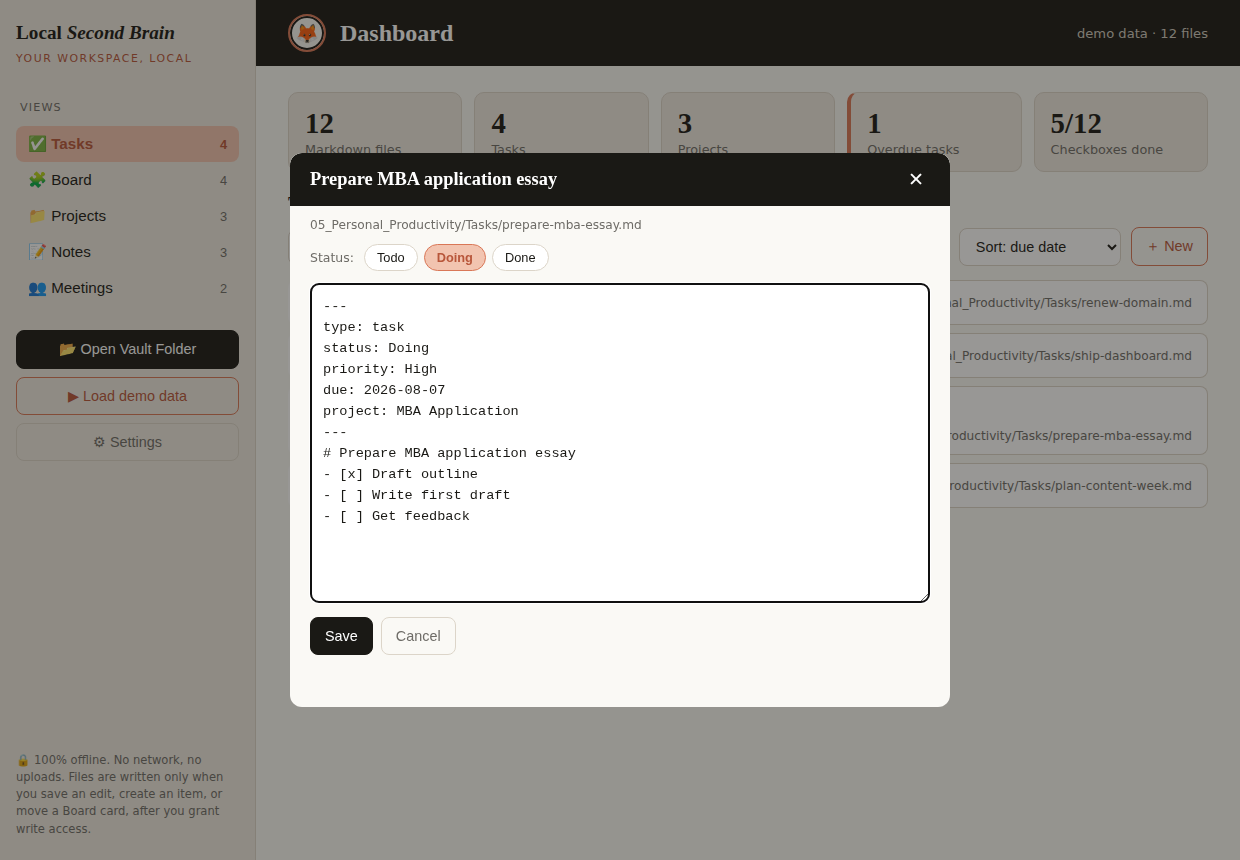
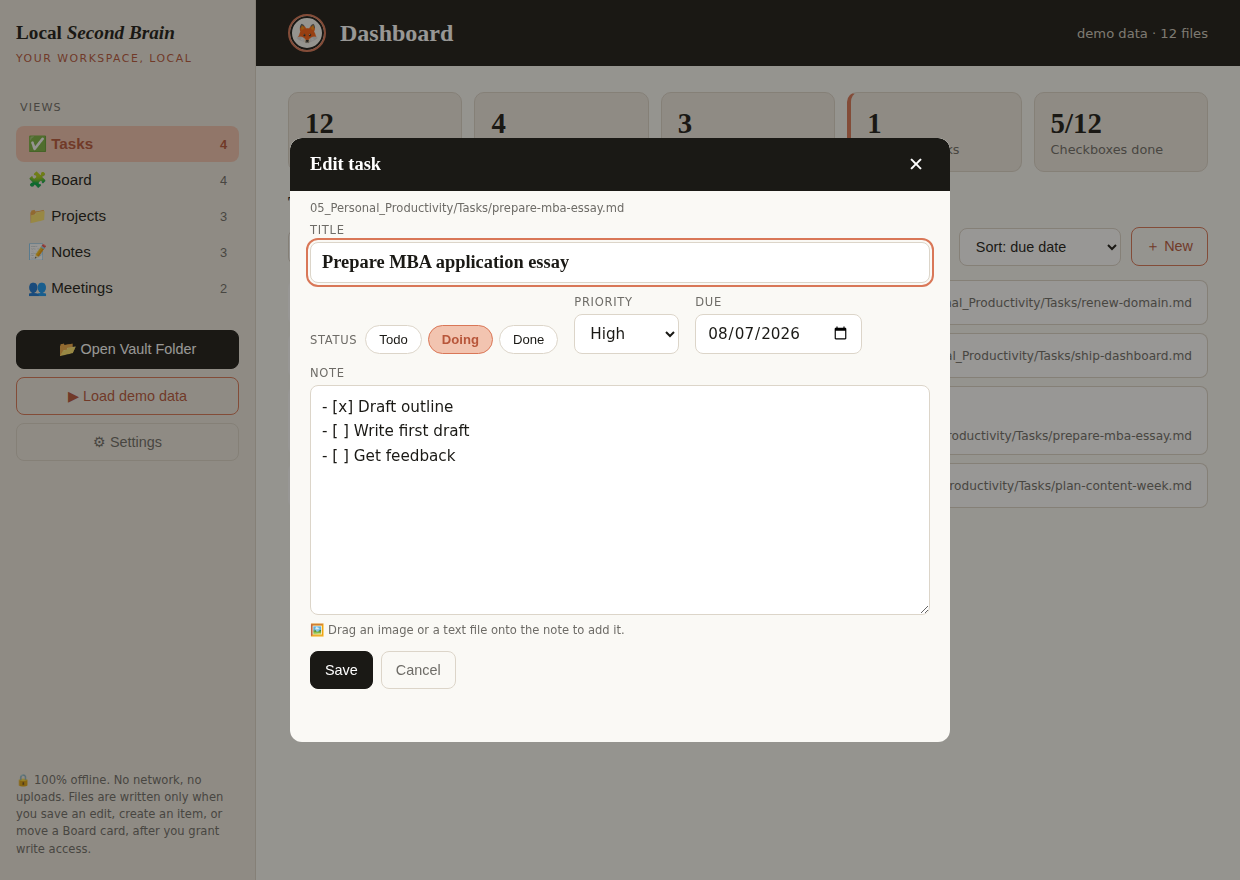
Make the note editor a friendly form with drag-and-drop attachments
The editor no longer shows raw YAML in a monospace box. It now has:
- A title field, Todo/Doing/Done status buttons, priority and due-date
  pickers, and a clean writing area with just the note prose.
- parseDoc/buildDoc split a Markdown file into frontmatter, title and
  body and reassemble it on save, preserving unmanaged frontmatter keys
  and mapping due to `deadline` for projects.
- Drag an image or text file onto the note to add it: images copy into
  an attachments/ folder and are linked (or embedded inline when there
  is no write access), text files are inserted at the cursor.

Verified in real Chromium: open shows fields populated and no YAML in
the body; edit title/status/priority/body round-trips on save; dropping
a PNG inserts an image link. No JS errors, textContent-only rendering,
no external requests.

diff --git a/dashboard/index.html b/dashboard/index.html
@@ -143,18 +143,27 @@
     background:var(--ink); color:#fff; padding:10px 18px; border-radius:8px; font-size:.85rem;
     z-index:60; max-width:90vw; }
 
-  /* ---- note editor ---- */
+  /* ---- note editor (friendly form) ---- */
   .row { cursor:pointer; }
   .editor.modal { max-width:660px; }
-  .editor .epath { color:var(--grey); font-size:.76rem; padding:12px 20px 0; direction:ltr; word-break:break-all; }
-  .editor .qrow { display:flex; gap:6px; padding:12px 20px 0; flex-wrap:wrap; align-items:center; }
-  .editor .qrow .qlbl { color:var(--grey); font-size:.78rem; margin-right:4px; }
+  .editor .epath { color:var(--grey); font-size:.72rem; padding:10px 20px 0; direction:ltr; word-break:break-all; }
+  .editor .eform { padding:8px 20px 0; display:flex; flex-direction:column; gap:12px; }
+  .editor .fl { display:flex; flex-direction:column; gap:5px; font-size:.72rem; letter-spacing:.06em;
+    text-transform:uppercase; color:var(--grey); }
+  .editor .fl input[type="text"], .editor .fl select, .editor .fl input[type="date"], .editor textarea {
+    font-family:inherit; font-size:.95rem; letter-spacing:normal; text-transform:none; color:var(--ink);
+    background:var(--white); border:1px solid var(--line); border-radius:8px; padding:9px 11px; }
+  .editor .fl input[type="text"] { font-family:Georgia, serif; font-size:1.15rem; font-weight:700; }
+  .editor textarea { min-height:230px; resize:vertical; line-height:1.6; }
+  .editor textarea.dropping { border-color:var(--clay); background:var(--salmon); }
+  .editor .frow2 { display:flex; gap:16px; flex-wrap:wrap; align-items:flex-end; }
+  .editor .fl.small { flex:0 0 auto; }
+  .editor .qrow { display:flex; gap:6px; align-items:center; flex-wrap:wrap; }
+  .editor .qrow .qlbl { color:var(--grey); font-size:.72rem; letter-spacing:.06em; text-transform:uppercase; margin-right:2px; }
   .editor .qrow button { border:1px solid var(--line); background:var(--white); color:var(--ink);
-    border-radius:999px; padding:5px 12px; font-size:.8rem; cursor:pointer; }
+    border-radius:999px; padding:6px 13px; font-size:.82rem; cursor:pointer; }
   .editor .qrow button.on { background:var(--salmon); color:var(--clay-dark); border-color:var(--clay); font-weight:700; }
-  .editor textarea { display:block; width:calc(100% - 40px); margin:12px 20px 0; min-height:320px; resize:vertical;
-    font-family:"Cascadia Code", Consolas, "Courier New", monospace; font-size:.85rem; line-height:1.55;
-    border:1px solid var(--line); border-radius:8px; padding:12px; background:var(--white); color:var(--ink); }
+  .editor .drophint { color:var(--grey); font-size:.72rem; margin-top:-4px; }
   .editor .eactions { display:flex; gap:8px; padding:14px 20px 0; }
   .editor .emsg { padding:8px 20px 0; color:var(--grey); font-size:.78rem; }
 
@@ -301,13 +310,29 @@
 <!-- Note editor modal -->
 <div class="overlay hidden" id="editorOverlay">
   <div class="modal editor" role="dialog" aria-label="Edit note">
-    <div class="mhead"><h2 id="edTitle">Edit</h2><button id="edClose" aria-label="Close">✕</button></div>
+    <div class="mhead"><h2 id="edHeading">Edit</h2><button id="edClose" aria-label="Close">✕</button></div>
     <div class="epath" id="edPath"></div>
-    <div class="qrow" id="edStatus">
-      <span class="qlbl">Status:</span>
-      <button data-s="Todo">Todo</button><button data-s="Doing">Doing</button><button data-s="Done">Done</button>
+    <div class="eform">
+      <label class="fl">Title
+        <input type="text" id="edTitle" placeholder="Untitled">
+      </label>
+      <div class="frow2">
+        <div class="qrow" id="edStatus">
+          <span class="qlbl">Status</span>
+          <button type="button" data-s="Todo">Todo</button><button type="button" data-s="Doing">Doing</button><button type="button" data-s="Done">Done</button>
+        </div>
+        <label class="fl small">Priority
+          <select id="edPriority"><option value="">None</option><option>Low</option><option>Medium</option><option>High</option></select>
+        </label>
+        <label class="fl small">Due
+          <input type="date" id="edDue">
+        </label>
+      </div>
+      <label class="fl">Note
+        <textarea id="edBody" spellcheck="true" aria-label="Note content" placeholder="Write here. You can drag an image or a text file into this box to add it."></textarea>
+      </label>
+      <div class="drophint">🖼 Drag an image or a text file onto the note to add it.</div>
     </div>
-    <textarea id="edBody" spellcheck="false" aria-label="Note content"></textarea>
     <div class="eactions">
       <button class="btn btn-ink" id="edSave">Save</button>
       <button class="btn btn-quiet" id="edCancel">Cancel</button>
@@ -550,39 +575,132 @@
     else toast(unsavedMsg("board changes"));
   }
 
-  /* ---------- note editor (create + edit inside the dashboard) ---------- */
+  /* ---------- note editor (friendly form + drag and drop) ---------- */
+  // Split a Markdown file into frontmatter, title, and body prose.
+  function parseDoc(raw) {
+    const fm = new Map(); let body = raw || ""; let titleInFm = false;
+    const m = (raw || "").match(/^---\r?\n([\s\S]*?)\r?\n---\r?\n?([\s\S]*)$/);
+    if (m) {
+      for (const line of m[1].split(/\r?\n/)) {
+        const kv = line.match(/^([A-Za-z_][\w-]*):\s*(.*)$/);
+        if (kv) fm.set(kv[1].toLowerCase(), kv[2]);
+      }
+      body = m[2] || "";
+    }
+    let title = "";
+    if (fm.has("title") && fm.get("title").trim()) {
+      title = fm.get("title").replace(/^["']|["']$/g, "").trim(); titleInFm = true;
+    } else {
+      const t = body.match(/^\s*#\s+(.+?)\s*(\r?\n|$)/);
+      if (t) { title = t[1].trim(); body = body.slice(t[0].length); }
+    }
+    return { fm, title, body: body.replace(/^\r?\n+/, ""), titleInFm };
+  }
+  // Rebuild a Markdown file from the parsed doc plus the form values.
+  function buildDoc(parsed, form) {
+    const fm = parsed.fm;
+    if (form.status) fm.set("status", form.status); else fm.delete("status");
+    if (form.priority) fm.set("priority", form.priority); else fm.delete("priority");
+    const dueKey = (fm.has("deadline") && !fm.has("due")) ? "deadline" : "due";
+    if (form.due) fm.set(dueKey, form.due); else fm.delete(dueKey);
+    let h1 = "";
+    if (parsed.titleInFm) { if (form.title) fm.set("title", form.title); }
+    else h1 = form.title ? "# " + form.title + "\n\n" : "";
+    const lines = [];
+    for (const [k, v] of fm) lines.push(k + ": " + v);
+    const fmText = lines.length ? "---\n" + lines.join("\n") + "\n---\n\n" : "";
+    let body = form.body || "";
+    if (body && !body.endsWith("\n")) body += "\n";
+    return fmText + h1 + body;
+  }
+
+  let edParsed = null;
   function markQStatus(status) {
     const s = (status || "").toLowerCase();
     for (const b of $("edStatus").querySelectorAll("button")) b.classList.toggle("on", b.dataset.s.toLowerCase() === s);
   }
   function openEditor(item) {
     editing = item;
-    $("edTitle").textContent = item.title || "Untitled";
+    edParsed = parseDoc(item.raw || "");
+    $("edHeading").textContent = "Edit " + (item.type || "note");
     $("edPath").textContent = item.path;
-    $("edBody").value = item.raw || "";
-    markQStatus(item.status);
+    $("edTitle").value = edParsed.title;
+    $("edBody").value = edParsed.body;
+    $("edPriority").value = edParsed.fm.get("priority") || "";
+    $("edDue").value = (edParsed.fm.get("due") || edParsed.fm.get("deadline") || "").trim();
+    markQStatus(edParsed.fm.get("status") || item.status);
     $("edMsg").textContent = "";
     $("editorOverlay").classList.remove("hidden");
-    $("edBody").focus();
+    $("edTitle").focus();
   }
-  function closeEditor() { $("editorOverlay").classList.add("hidden"); editing = null; }
+  function closeEditor() { $("editorOverlay").classList.add("hidden"); editing = null; edParsed = null; }
   $("edClose").addEventListener("click", closeEditor);
   $("edCancel").addEventListener("click", closeEditor);
   $("editorOverlay").addEventListener("click", (e) => { if (e.target === $("editorOverlay")) closeEditor(); });
   $("edStatus").addEventListener("click", (e) => {
     const b = e.target.closest("button[data-s]"); if (!b) return;
-    $("edBody").value = setFmStatus($("edBody").value, b.dataset.s);
-    markQStatus(b.dataset.s);
+    markQStatus(b.classList.contains("on") ? "" : b.dataset.s);   // toggle
   });
   $("edSave").addEventListener("click", async () => {
-    if (!editing) return;
-    editing.raw = $("edBody").value;
+    if (!editing || !edParsed) return;
+    const on = $("edStatus").querySelector("button.on");
+    const form = {
+      title: $("edTitle").value.trim(),
+      status: on ? on.dataset.s : (edParsed.fm.get("status") || ""),
+      priority: $("edPriority").value,
+      due: $("edDue").value,
+      body: $("edBody").value,
+    };
+    editing.raw = buildDoc(edParsed, form);
     Object.assign(editing, toItem(editing.path, editing.raw, Date.now(), editing.handle));
     const res = await writeBack(editing);
     if (res === false) { $("edMsg").textContent = "Write access was denied. The file was not saved."; render(); return; }
     toast(res === true ? "Saved: " + editing.path : unsavedMsg("changes") + " (kept for this session)");
     closeEditor(); render();
   });
+
+  /* ---------- drag and drop files into the note ---------- */
+  function insertAtCursor(text) {
+    const ta = $("edBody");
+    const s = ta.selectionStart ?? ta.value.length, e = ta.selectionEnd ?? ta.value.length;
+    ta.value = ta.value.slice(0, s) + text + ta.value.slice(e);
+    const pos = s + text.length; ta.selectionStart = ta.selectionEnd = pos; ta.focus();
+  }
+  async function addFileToNote(file) {
+    const isImg = /^image\//.test(file.type);
+    const isText = /^text\//.test(file.type) || /\.(md|txt|csv|json)$/i.test(file.name);
+    if (isImg) {
+      const safe = file.name.replace(/[^\w.\-]+/g, "_");
+      if (editing && editing.handle && dirHandle && await ensureWrite()) {
+        try {
+          const dh = await dirHandle.getDirectoryHandle("attachments", { create: true });
+          const fh = await dh.getFileHandle(safe, { create: true });
+          const w = await fh.createWritable(); await w.write(file); await w.close();
+          insertAtCursor("\n![" + file.name + "](attachments/" + safe + ")\n");
+          toast("Added image: attachments/" + safe);
+        } catch (err) { toast("Could not save image: " + err.message); }
+      } else {
+        const dataUrl = await new Promise((res) => { const r = new FileReader(); r.onload = () => res(r.result); r.readAsDataURL(file); });
+        insertAtCursor("\n![" + file.name + "](" + dataUrl + ")\n");
+        toast("Image added inline (no write access, embedded in the note).");
+      }
+    } else if (isText) {
+      insertAtCursor("\n" + (await file.text()) + "\n");
+      toast("Added text from " + file.name);
+    } else {
+      toast("That file type is not supported: " + (file.type || file.name));
+    }
+  }
+  (() => {
+    const ta = $("edBody");
+    for (const ev of ["dragenter", "dragover"]) ta.addEventListener(ev, (e) => { e.preventDefault(); ta.classList.add("dropping"); });
+    for (const ev of ["dragleave", "dragend"]) ta.addEventListener(ev, () => ta.classList.remove("dropping"));
+    ta.addEventListener("drop", async (e) => {
+      e.preventDefault(); ta.classList.remove("dropping");
+      const files = [...(e.dataTransfer && e.dataTransfer.files || [])];
+      for (const f of files) await addFileToNote(f);
+    });
+  })();
 
   const NEW_FOLDER = { task: "05_Personal_Productivity/Tasks", project: "00_System_of_Record/Projects",
     meeting: "00_System_of_Record/Meeting_Notes", note: "00_System_of_Record/Knowledge_Base" };

diff --git a/README.md b/README.md
@@ -66,7 +66,7 @@ The dashboard scans your Markdown files **locally** — tasks, projects, notes, 
 
 It also includes:
 
-- **✍ Edit and create in place** — click any item to open an editor with the full note, quick Todo/Doing/Done buttons, and Save. Use **＋ New** to create a task, project, note, or meeting from a template. In Chrome or Edge, saving and creating write straight to the Markdown files after you grant write access once; in demo or read-only mode, changes stay in the session.
+- **✍ Edit and create in place** — click any item to open a friendly editor: a title field, Todo/Doing/Done buttons, priority and due-date pickers, and a clean writing area (no YAML in sight). **Drag an image or a text file onto the note** to add it: images are copied into an `attachments/` folder and linked (or embedded inline when there's no write access), text files are pasted in. Use **＋ New** to create a task, project, note, or meeting from a template. In Chrome or Edge, saving and creating write straight to the Markdown files after you grant write access once; in demo or read-only mode, changes stay in the session.
 - **🧩 Board** — a kanban view (Todo / Doing / Done) with drag and drop. Moving a card updates the `status` in the Markdown file. In demo or read-only mode, moves stay on screen only.
 - **🔒 PIN lock** — set a PIN in ⚙ Settings to lock the dashboard on your device. Honest note: this locks the dashboard view only; the Markdown files stay readable on disk, so use your OS password or disk encryption for real protection.
 - **⚙ Settings** — PIN management, default view, and whether to include `templates/` and `docs/` in the scan. Stored in your browser only.
